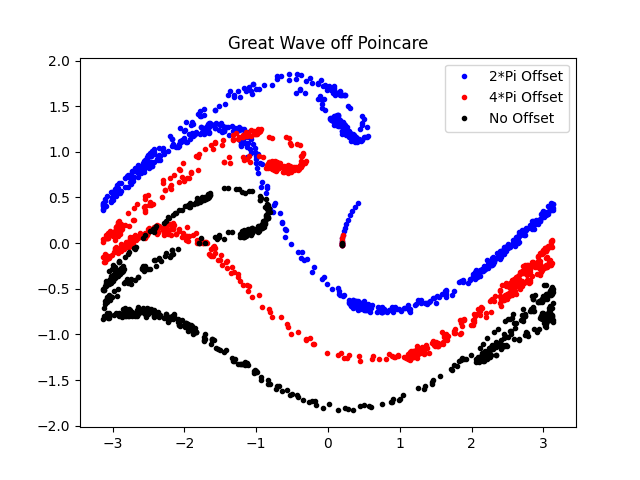
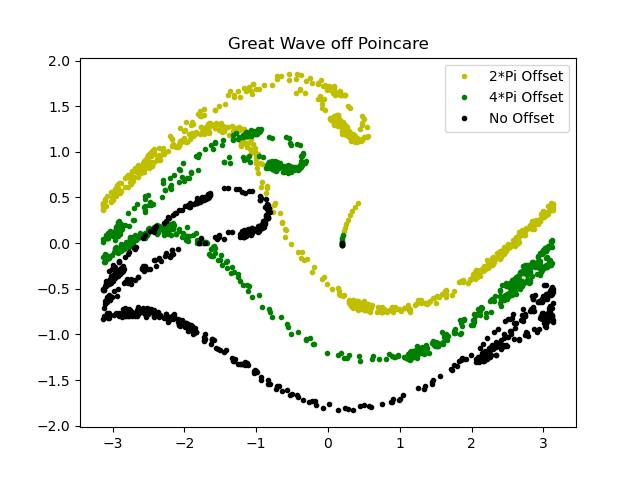
modified:   PoincareWave.png 	modified:   gaussian.png 	modified:   tutorial.py

diff --git a/tutorial.py b/tutorial.py
@@ -49,8 +49,8 @@ for i in range(len(pi0)):
 
 # Plotting datasets together with legend (saving file)
 plt.title("Great Wave off Poincare")
-plt.plot(pi2T[0],pi2T[1],'b.',label="2*Pi Offset")
-plt.plot(pi4T[0],pi4T[1],'r.',label="4*Pi Offset")
+plt.plot(pi2T[0],pi2T[1],'y.',label="2*Pi Offset")
+plt.plot(pi4T[0],pi4T[1],'g.',label="4*Pi Offset")
 plt.plot(pi0T[0],pi0T[1],'k.',label="No Offset")
 plt.legend()
 plt.savefig('PoincareWave.png')
